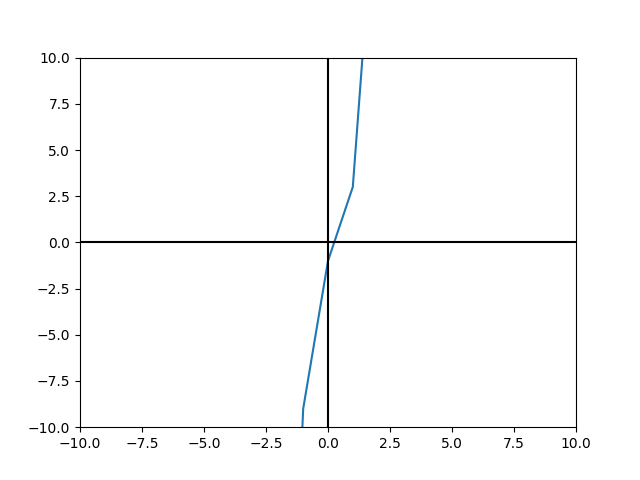
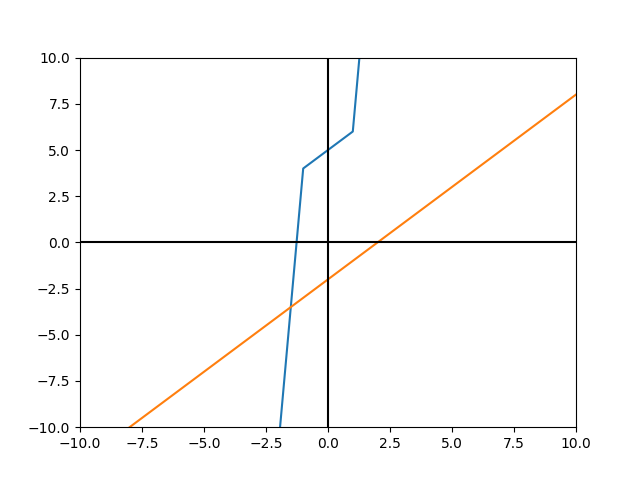
a

diff --git a/plugins/user_commands/limites.py b/plugins/user_commands/limites.py
@@ -1,8 +1,23 @@
 from pyrogram import Client, filters
+from plugins.funciones.graficador import Graficador
 
-@Client.on_message(filters.command(['start'], ['!','.','/']))
+@Client.on_message(filters.command(['graficar'], ['!','.','/']))
 async def startComando(client, message):
     user_name = message.from_user.username
     user_id = message.from_user.id
+
+    mensaje_usuario = message.text[len('/graficar'):]
+    print(mensaje_usuario)
+    funciones = mensaje_usuario.split("&")
+    print(f'funcion separada: {funciones}')
+    funciones = [funcion.strip() for funcion in funciones]
+    print(f'funciones sin espacio: {funciones}')
+    funciones = [funcion.replace('^', '**') if '^' in funcion else funcion for funcion in funciones]
+    print(f'funciones reemplazadas: {funciones}')
+    graficador = Graficador()
+    graficador.graficar(*funciones)
+
+
+   
 
     return await message.reply_text(f"Hola **{user_name}**, bienvenido a EcundiBot.\nTu ID es **{user_id}**.")

diff --git a/plugins/funciones/graficador.py b/plugins/funciones/graficador.py
@@ -1,24 +1,20 @@
-import sys
-
+import numpy as np
 from matplotlib import pyplot
 
 class Graficador:
     def __init__(self):
         self.rango = range(-10, 15)
 
-    def funcion_1(self, x, funcion):
+    def funcion(self, x, funcion):
+        funcion = funcion.replace('x', str(x))
+        print(f'argumento funcion: {funcion}')
         return eval(funcion)
     
-    def funcion_2(self, x, funcion):
-        return funcion.replace("x", str(x))
-    
     def graficar(self, *args):
-        pyplot.plot(self.rango, [self.funcion_1(i, '3*x**3 - 2*x**2 + 3*x - 1') for i in self.rango])
+        for i in range(len(args)):
+            pyplot.plot(self.rango, [self.funcion(j, args[i]) for j in self.rango])
         pyplot.axhline(0, color="black")
         pyplot.axvline(0, color="black")
         pyplot.xlim(-10, 10)
         pyplot.ylim(-10, 10)
         pyplot.savefig("output.png")
-        pyplot.show()
-
-Graficador().graficar()

diff --git a/plugins/user_commands/start.py b/plugins/user_commands/start.py
@@ -5,4 +5,4 @@ async def startComando(client, message):
     user_name = message.from_user.username
     user_id = message.from_user.id
 
-    return await message.reply_text(f"Hola **{user_name}**, bienvenido a EcundiBot.\nTu ID es **{user_id}**.")
+    return await message.reply_text(f"Hola **{user_name}**, bienvenido a EcundiBot.\nTu ID es **{user_id}**.", reply_to_message_id=message.id)
